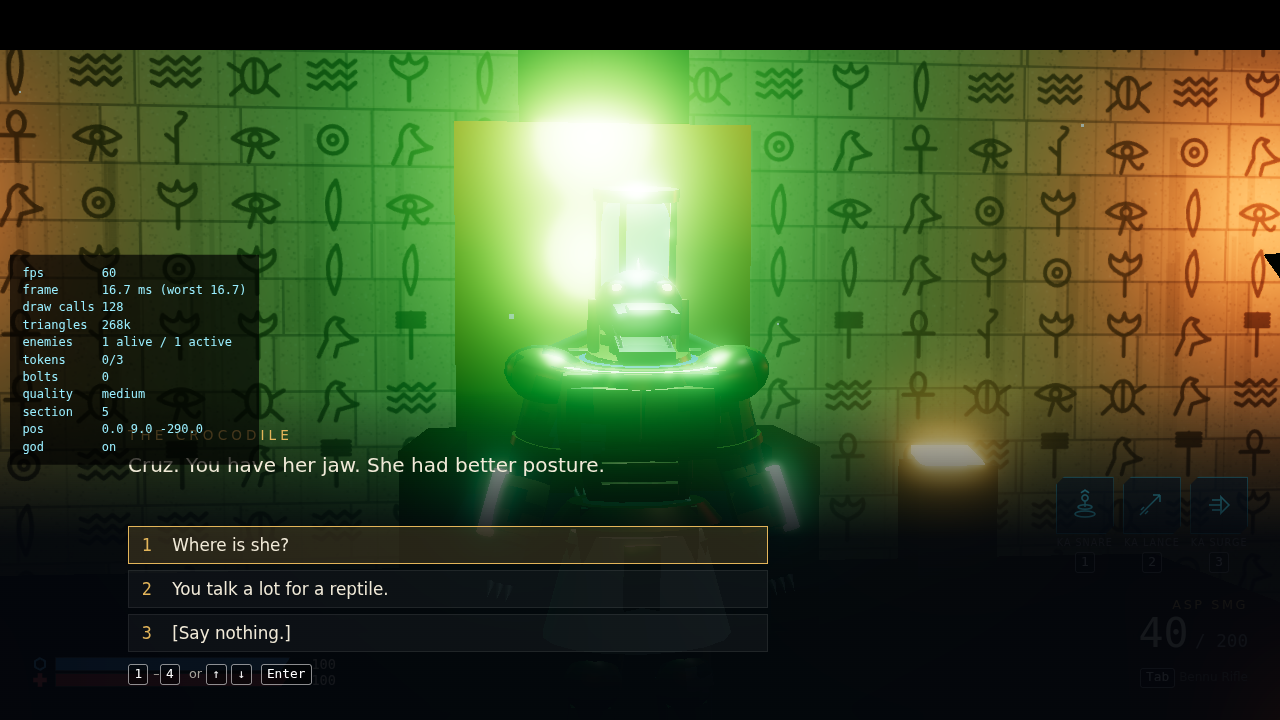
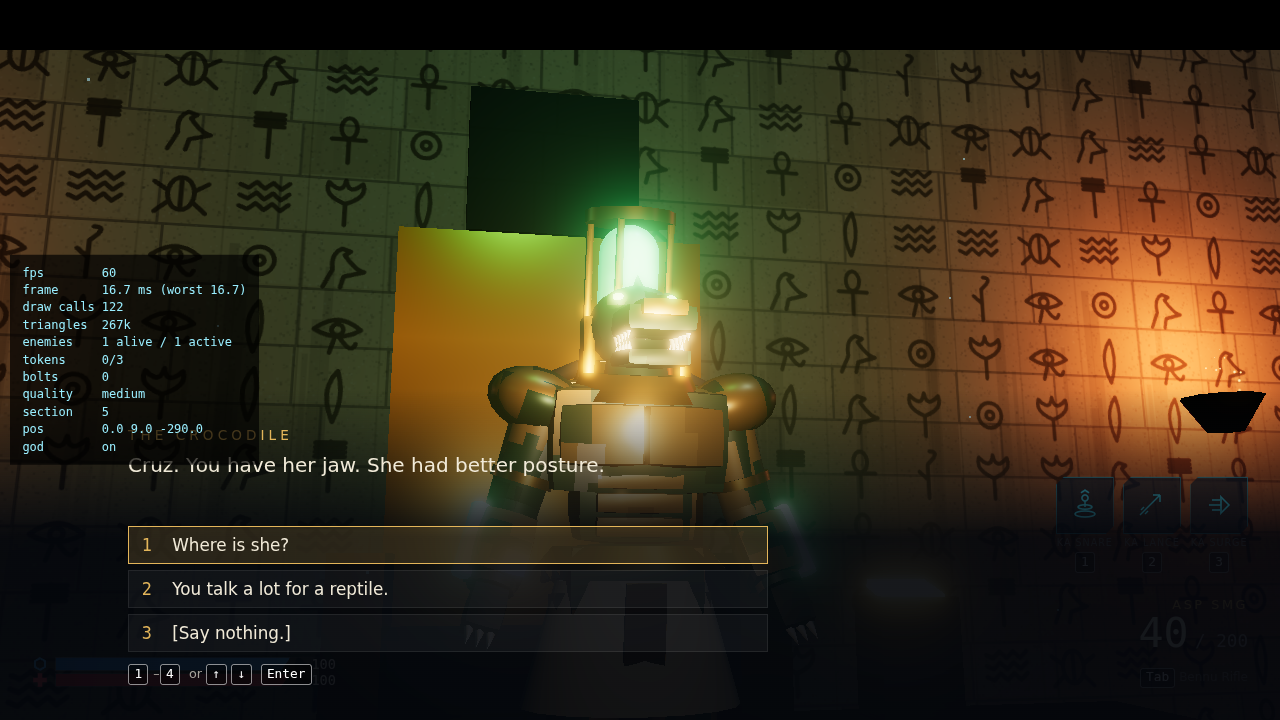
M9 done: Basin lighting and boss readability, final checks
Warmer Basin ambient, dimmer pool light and a warm light riding with the
Crocodile so his armour reads against the green arena. PLAN.md: M9
checked, done checklist against the brief.

Claude-Session: https://claude.ai/code/session_01CzbQw9URJZvmmGQycdPCbK

diff --git a/src/enemies/Boss.ts b/src/enemies/Boss.ts
@@ -136,8 +136,8 @@ export class Crocodile extends Enemy {
   private readonly bubble: THREE.Mesh;
   private bubbleHit = 0;
   private readonly leapFrom = new THREE.Vector3();
-  /** A green light rides with him so he reads at range in a dark arena. */
-  private readonly glow: LightAnchor = { pos: new THREE.Vector3(0, -200, 0), color: new THREE.Color(KA_GREEN), intensity: 3, distance: 8, section: 5, flicker: 0 };
+  /** A warm light rides with him so his bronze and gold read in the green arena. */
+  private readonly glow: LightAnchor = { pos: new THREE.Vector3(0, -200, 0), color: new THREE.Color(0xffd2a0), intensity: 3, distance: 8, section: 5, flicker: 0 };
 
   constructor(game: Game) {
     const model = new BossModel();
@@ -1006,7 +1006,7 @@ export class Crocodile extends Enemy {
     this.croc.chestWorld(this.glow.pos);
     this.glow.pos.x -= Math.sin(this.yaw) * 1.3;
     this.glow.pos.z -= Math.cos(this.yaw) * 1.3;
-    this.glow.intensity = this.mode === 'downed' ? 1.5 : this.mode === 'channel' ? 4 : 2.5 + this.phase * 0.5;
+    this.glow.intensity = this.mode === 'downed' ? 2 : this.mode === 'channel' ? 4.5 : 3.5 + this.phase * 0.5;
     if (this.shieldBubble) this.shieldBubble.visible = this.defenses.shield > 0 && this.mode !== 'dormant' && this.mode !== 'downed';
     const pp = this.game.player.position;
     const dy = pp.y + 1.2 - (this.position.y + this.height * 0.85);

diff --git a/src/level/sections/basin.ts b/src/level/sections/basin.ts
@@ -19,7 +19,7 @@ export const basin: SectionDef = {
   enter: [-25, ARENA_Y - 1, -283, 25, 30, -331],
   nav: { minX: -25, maxX: 25, minZ: -331, maxZ: -282, minY: 8, maxY: 16 },
   music: 'boss',
-  ambient: [0x3aa080, 0x2a1408, 1.15],
+  ambient: [0x5f8088, 0x2a1408, 1.05],
   objective: OBJECTIVES.boss,
   markers: { boss: [0, ARENA_Y + 3, -322], ledger: [0, ARENA_Y + 2, -328.5] },
   encounters: [],
@@ -80,7 +80,7 @@ export const basin: SectionDef = {
     b.group.add(glyphRing);
     b.anims.push((t) => (glyphRing.rotation.y = t * 0.1));
     hologram(b, 0, Y + 7, -306, 'eye', '#40ff9a', 5);
-    b.light(0, Y + 3, -306, 0x40ff9a, 10, 16);
+    b.light(0, Y + 3, -306, 0x40ff9a, 5, 14);
 
     // Raised platforms with ramps.
     for (const sx of [-1, 1]) {

diff --git a/src/enemies/BossModel.ts b/src/enemies/BossModel.ts
@@ -11,7 +11,7 @@ const PALETTE: PaletteEntry[] = [
   { color: 0xffffff, roughness: 0.5, metalness: 0.3, camo: 1 }, // scale pattern (green base)
   { color: 0xffffff, roughness: 0.38, metalness: 0.55, camo: 2 }, // bronze plates
   { color: 0xd4a640, roughness: 0.28, metalness: 0.95 },
-  { color: 0xd8ccaa, roughness: 0.85, metalness: 0 },
+  { color: 0xa89878, roughness: 0.85, metalness: 0 },
   { color: 0x121413, roughness: 0.6, metalness: 0.3 },
   { color: 0x40ff9a, roughness: 0.3, metalness: 0, emissive: 1.2 },
   { color: 0xa0ff70, roughness: 0.2, metalness: 0, emissive: 2.5 },

diff --git a/PLAN.md b/PLAN.md
@@ -50,7 +50,7 @@ Status legend: `[x]` done, `[ ]` not yet, `[~]` partially done (see note).
 - [x] **M8 Boss.** The Crocodile: 3 layers/phases, stolen ka powers,
   telegraphs, reinforcements, named bar, pre/post dialogue.
   *Accept:* boss is beatable via ?section=5; length estimate 3-4 min.
-- [ ] **M9 UI, audio, polish.** Title/pause/settings/death/end screens,
+- [x] **M9 UI, audio, polish.** Title/pause/settings/death/end screens,
   synthesized SFX + music via manifest, extra animations, README,
   deploy check.
   *Accept:* full run start to finish via scripted check; no console
@@ -125,7 +125,7 @@ Status legend: `[x]` done, `[ ]` not yet, `[~]` partially done (see note).
   colliders that queries still hit (invisible blockers); combo damage on
   the boss now goes through his phase logic.
 
-- M9 (in progress): full playthroughs by a bot, title screen to end screen,
+- M9: full playthroughs by a bot, title screen to end screen,
   `node scripts/shots.mjs playthrough` (keyboard/mouse action paths, real
   Enter presses on the menus) and `PAD=1 ... playthrough` (everything
   through a simulated gamepad: sticks, triggers, LB/RB, A/X/Y). Both
@@ -138,6 +138,30 @@ Status legend: `[x]` done, `[ ]` not yet, `[~]` partially done (see note).
   stays out of walls; enemy barks are wired up. Death -> retry restores the
   checkpoint and resets the encounter. README written. Pages workflow
   split so the build job passes until Pages is enabled in the repo.
+  Polish after review of the shots: dock office screen texture (was a flat
+  colour), warmer Basin lighting and a warm light riding with the boss so
+  his bronze/gold armour reads. Difficulty check: the same bot without god
+  mode (perfect aim, never uses cover) gets the boss to phase 3 with 67
+  health left before dying at 132 s, so a human using cover with normal
+  aim should land near the 3-4 minute target. Low/high presets render
+  without errors (club: low 169 calls / 149k tris, high 243 / 370k).
+
+## Done checklist (from the brief)
+
+- [x] Completable start to finish with keyboard/mouse and with gamepad
+  (`playthrough`, `PAD=1 playthrough`).
+- [x] Combos work on every enemy type once stripped (`combat`: grunt,
+  trooper, heavy; boss phase 3 in `boss`).
+- [x] Tests pass (42), no console errors in any scripted run, medium
+  budgets met in every section (max 244 draw calls, 282k triangles).
+- [x] Pages workflow builds and tests in CI. Deploy needs the one-time
+  repo setting (Settings -> Pages -> Source: GitHub Actions).
+- [x] New players get control prompts in context, a controls screen and
+  device-matched glyphs.
+- [x] README covers running, building, deploying, debug tools, tuning and
+  audio swapping.
+- Cut order not needed: extra animations, the optional club NPC (Yaw),
+  boss phase three and the terraces are all in.
 
 ## Notes for a fresh session
 
